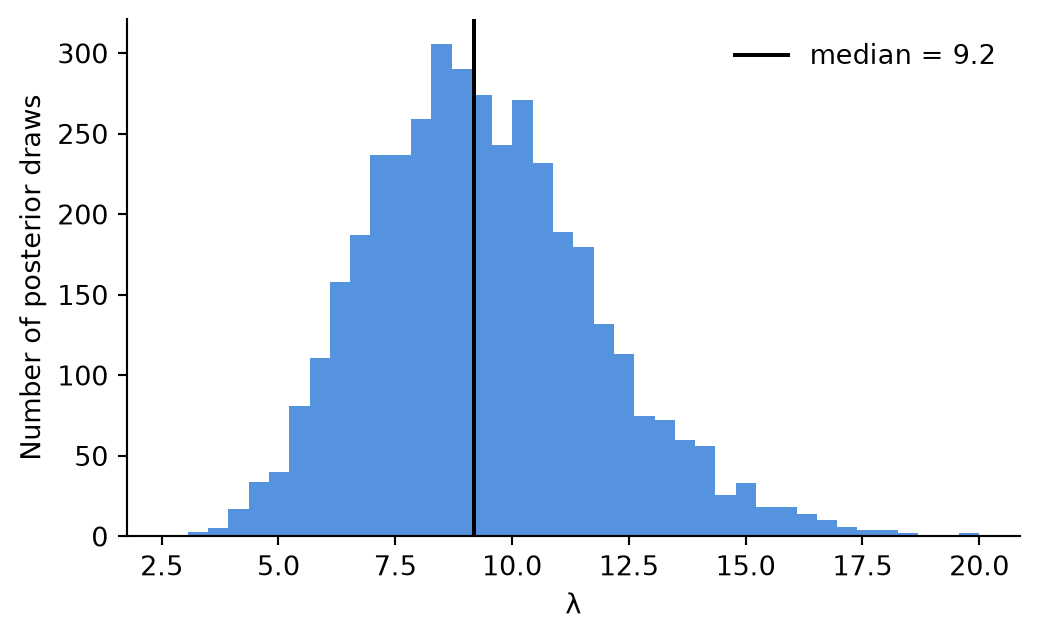
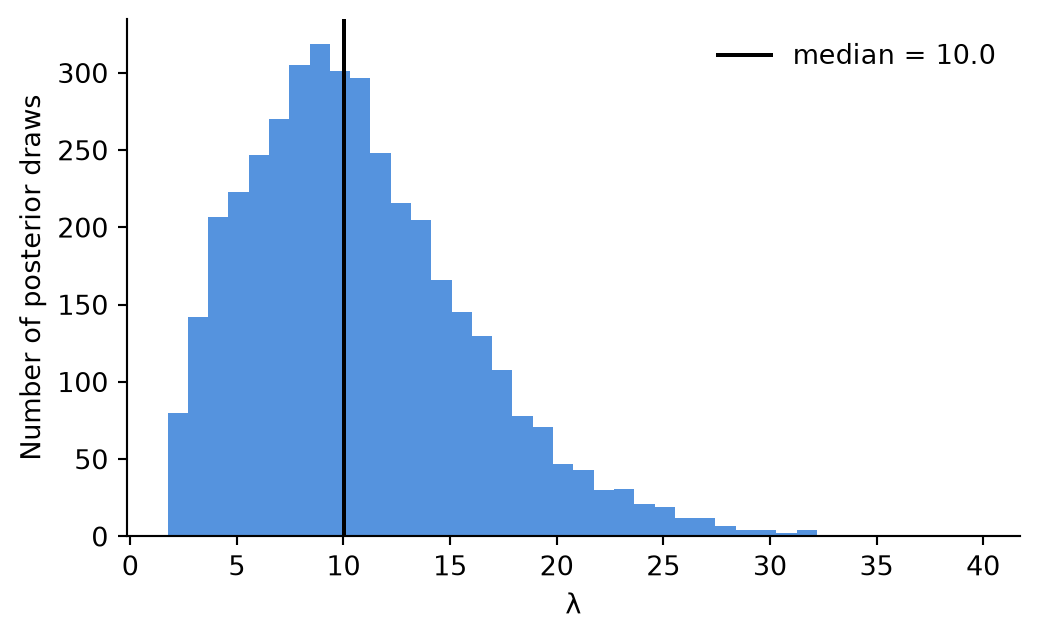
updated commit

diff --git a/_book/bayes_lasso.html b/_book/bayes_lasso.html
@@ -670,53 +670,42 @@ Genes (p):   4088</code></pre>
 <h3 data-number="9.5.4" class="anchored" data-anchor-id="step-4-prepare-the-data"><span class="header-section-number">9.5.4</span> Step 4: Prepare the data</h3>
 <p>We do three things before modeling.</p>
 <p><strong>4a. Split into training and test sets.</strong> We fit the model on the training samples and keep some samples hidden. Later we use the hidden samples to check whether the model predicts well on data it has never seen.</p>
-<p><strong>4b. Screen to the most promising genes.</strong> Sampling 4,088 coefficients with MCMC is possible but slow. To keep this demonstration fast, we keep the 100 genes most correlated with <span class="math inline">\(y\)</span> in the training data. We use only the training data for this step. If we looked at the test samples, information would leak and the test results would look better than they should.</p>
-<p><strong>4c. Standardize.</strong> We rescale every gene to mean 0 and standard deviation 1, and center and scale <span class="math inline">\(y\)</span>. This matters because the lasso penalty treats all coefficients equally, so predictors measured on larger scales would otherwise be penalized unfairly. Centering also lets us leave the intercept out of the model, since centered data have an intercept of zero (the paper makes the same simplification). Test data are scaled using the <em>training</em> means and standard deviations.</p>
+<p><strong>4b. Standardize.</strong> We rescale every gene to mean 0 and standard deviation 1, and center and scale <span class="math inline">\(y\)</span>. This matters because the lasso penalty treats all coefficients equally, so predictors measured on larger scales would otherwise be penalized unfairly. Centering also lets us leave the intercept out of the model, since centered data have an intercept of zero (the paper makes the same simplification). Test data are scaled using the <em>training</em> means and standard deviations.</p>
 <div id="prepare-data" class="cell" data-execution_count="4">
 <details class="code-fold">
 <summary>Code</summary>
 <div class="code-copy-outer-scaffold"><div class="sourceCode cell-code" id="cb7"><pre class="sourceCode python code-with-copy"><code class="sourceCode python"><span id="cb7-1"><a href="#cb7-1" aria-hidden="true" tabindex="-1"></a><span class="im">from</span> sklearn.model_selection <span class="im">import</span> train_test_split</span>
-<span id="cb7-2"><a href="#cb7-2" aria-hidden="true" tabindex="-1"></a><span class="im">from</span> sklearn.feature_selection <span class="im">import</span> SelectKBest, f_regression</span>
-<span id="cb7-3"><a href="#cb7-3" aria-hidden="true" tabindex="-1"></a><span class="im">from</span> sklearn.preprocessing <span class="im">import</span> StandardScaler</span>
-<span id="cb7-4"><a href="#cb7-4" aria-hidden="true" tabindex="-1"></a></span>
-<span id="cb7-5"><a href="#cb7-5" aria-hidden="true" tabindex="-1"></a><span class="co"># 4a. 80/20 split (20% of 71 samples rounds up to 15 test samples)</span></span>
-<span id="cb7-6"><a href="#cb7-6" aria-hidden="true" tabindex="-1"></a></span>
-<span id="cb7-7"><a href="#cb7-7" aria-hidden="true" tabindex="-1"></a><span class="co"># X_train_raw: the gene values for the training samples (56 × 4088)</span></span>
-<span id="cb7-8"><a href="#cb7-8" aria-hidden="true" tabindex="-1"></a><span class="co"># X_test_raw: the gene values for the test samples (15 × 4088)</span></span>
-<span id="cb7-9"><a href="#cb7-9" aria-hidden="true" tabindex="-1"></a><span class="co"># y_train_raw: the response for the training samples (56 values)</span></span>
-<span id="cb7-10"><a href="#cb7-10" aria-hidden="true" tabindex="-1"></a><span class="co"># y_test_raw: the response for the test samples (15 values)</span></span>
-<span id="cb7-11"><a href="#cb7-11" aria-hidden="true" tabindex="-1"></a></span>
-<span id="cb7-12"><a href="#cb7-12" aria-hidden="true" tabindex="-1"></a>X_train_raw, X_test_raw, y_train_raw, y_test_raw <span class="op">=</span> train_test_split(</span>
-<span id="cb7-13"><a href="#cb7-13" aria-hidden="true" tabindex="-1"></a>    X_all, y_all, test_size<span class="op">=</span><span class="fl">0.2</span>, random_state<span class="op">=</span><span class="dv">42</span></span>
-<span id="cb7-14"><a href="#cb7-14" aria-hidden="true" tabindex="-1"></a>)</span>
-<span id="cb7-15"><a href="#cb7-15" aria-hidden="true" tabindex="-1"></a></span>
-<span id="cb7-16"><a href="#cb7-16" aria-hidden="true" tabindex="-1"></a><span class="co"># 4b. Keep the 100 genes most related to y - fit on TRAINING data only</span></span>
-<span id="cb7-17"><a href="#cb7-17" aria-hidden="true" tabindex="-1"></a></span>
-<span id="cb7-18"><a href="#cb7-18" aria-hidden="true" tabindex="-1"></a><span class="co"># create a selector that scores every gene by how strongly it is related to y and keeps the best k = 100</span></span>
-<span id="cb7-19"><a href="#cb7-19" aria-hidden="true" tabindex="-1"></a><span class="co"># f_regression is the scoring method where for each gene on its own, it asks “how strongly does this gene predict y?” </span></span>
-<span id="cb7-20"><a href="#cb7-20" aria-hidden="true" tabindex="-1"></a><span class="co"># a higher score means a stronger relationship, regardless of direction</span></span>
-<span id="cb7-21"><a href="#cb7-21" aria-hidden="true" tabindex="-1"></a>selector <span class="op">=</span> SelectKBest(f_regression, k<span class="op">=</span><span class="dv">100</span>).fit(X_train_raw, y_train_raw)</span>
-<span id="cb7-22"><a href="#cb7-22" aria-hidden="true" tabindex="-1"></a>keep_idx <span class="op">=</span> selector.get_support(indices<span class="op">=</span><span class="va">True</span>)   <span class="co"># positions of the 100 kept genes</span></span>
-<span id="cb7-23"><a href="#cb7-23" aria-hidden="true" tabindex="-1"></a>kept_genes <span class="op">=</span> gene_names[keep_idx]</span>
-<span id="cb7-24"><a href="#cb7-24" aria-hidden="true" tabindex="-1"></a></span>
-<span id="cb7-25"><a href="#cb7-25" aria-hidden="true" tabindex="-1"></a><span class="co"># 4c. Standardize genes - means and sds come from TRAINING data only</span></span>
+<span id="cb7-2"><a href="#cb7-2" aria-hidden="true" tabindex="-1"></a><span class="im">from</span> sklearn.preprocessing <span class="im">import</span> StandardScaler</span>
+<span id="cb7-3"><a href="#cb7-3" aria-hidden="true" tabindex="-1"></a></span>
+<span id="cb7-4"><a href="#cb7-4" aria-hidden="true" tabindex="-1"></a><span class="co"># 4a. 80/20 split (20% of 71 samples rounds up to 15 test samples)</span></span>
+<span id="cb7-5"><a href="#cb7-5" aria-hidden="true" tabindex="-1"></a><span class="co"># X_train_raw: gene values for the training samples (56 × 4088)</span></span>
+<span id="cb7-6"><a href="#cb7-6" aria-hidden="true" tabindex="-1"></a><span class="co"># X_test_raw: gene values for the test samples (15 × 4088)</span></span>
+<span id="cb7-7"><a href="#cb7-7" aria-hidden="true" tabindex="-1"></a><span class="co"># y_train_raw: the response for the training samples (56 values)</span></span>
+<span id="cb7-8"><a href="#cb7-8" aria-hidden="true" tabindex="-1"></a><span class="co"># y_test_raw: the response for the test samples (15 values)</span></span>
+<span id="cb7-9"><a href="#cb7-9" aria-hidden="true" tabindex="-1"></a></span>
+<span id="cb7-10"><a href="#cb7-10" aria-hidden="true" tabindex="-1"></a>X_train_raw, X_test_raw, y_train_raw, y_test_raw <span class="op">=</span> train_test_split(</span>
+<span id="cb7-11"><a href="#cb7-11" aria-hidden="true" tabindex="-1"></a>    X_all, y_all, test_size<span class="op">=</span><span class="fl">0.2</span>, random_state<span class="op">=</span><span class="dv">42</span></span>
+<span id="cb7-12"><a href="#cb7-12" aria-hidden="true" tabindex="-1"></a>)</span>
+<span id="cb7-13"><a href="#cb7-13" aria-hidden="true" tabindex="-1"></a></span>
+<span id="cb7-14"><a href="#cb7-14" aria-hidden="true" tabindex="-1"></a><span class="co"># 4b. Standardize genes - means and sds come from TRAINING data only</span></span>
+<span id="cb7-15"><a href="#cb7-15" aria-hidden="true" tabindex="-1"></a><span class="co"># We keep all 4088 genes (no screening step); the Bayesian lasso handles p &gt; n.</span></span>
+<span id="cb7-16"><a href="#cb7-16" aria-hidden="true" tabindex="-1"></a></span>
+<span id="cb7-17"><a href="#cb7-17" aria-hidden="true" tabindex="-1"></a>x_scaler <span class="op">=</span> StandardScaler().fit(X_train_raw)</span>
+<span id="cb7-18"><a href="#cb7-18" aria-hidden="true" tabindex="-1"></a>Z_train <span class="op">=</span> x_scaler.transform(X_train_raw)</span>
+<span id="cb7-19"><a href="#cb7-19" aria-hidden="true" tabindex="-1"></a>Z_test <span class="op">=</span> x_scaler.transform(X_test_raw)</span>
+<span id="cb7-20"><a href="#cb7-20" aria-hidden="true" tabindex="-1"></a></span>
+<span id="cb7-21"><a href="#cb7-21" aria-hidden="true" tabindex="-1"></a><span class="co"># Standardize y the same way (we keep y_mean and y_sd to convert predictions back later)</span></span>
+<span id="cb7-22"><a href="#cb7-22" aria-hidden="true" tabindex="-1"></a></span>
+<span id="cb7-23"><a href="#cb7-23" aria-hidden="true" tabindex="-1"></a>y_mean, y_sd <span class="op">=</span> y_train_raw.mean(), y_train_raw.std(ddof<span class="op">=</span><span class="dv">1</span>)</span>
+<span id="cb7-24"><a href="#cb7-24" aria-hidden="true" tabindex="-1"></a>y_train <span class="op">=</span> (y_train_raw <span class="op">-</span> y_mean) <span class="op">/</span> y_sd</span>
+<span id="cb7-25"><a href="#cb7-25" aria-hidden="true" tabindex="-1"></a>y_test <span class="op">=</span> (y_test_raw <span class="op">-</span> y_mean) <span class="op">/</span> y_sd</span>
 <span id="cb7-26"><a href="#cb7-26" aria-hidden="true" tabindex="-1"></a></span>
-<span id="cb7-27"><a href="#cb7-27" aria-hidden="true" tabindex="-1"></a>x_scaler <span class="op">=</span> StandardScaler().fit(X_train_raw[:, keep_idx])</span>
-<span id="cb7-28"><a href="#cb7-28" aria-hidden="true" tabindex="-1"></a>Z_train <span class="op">=</span> x_scaler.transform(X_train_raw[:, keep_idx])</span>
-<span id="cb7-29"><a href="#cb7-29" aria-hidden="true" tabindex="-1"></a>Z_test <span class="op">=</span> x_scaler.transform(X_test_raw[:, keep_idx])</span>
-<span id="cb7-30"><a href="#cb7-30" aria-hidden="true" tabindex="-1"></a></span>
-<span id="cb7-31"><a href="#cb7-31" aria-hidden="true" tabindex="-1"></a><span class="co"># Standardize y the same way (we keep y_mean and y_sd to convert predictions back later)</span></span>
-<span id="cb7-32"><a href="#cb7-32" aria-hidden="true" tabindex="-1"></a></span>
-<span id="cb7-33"><a href="#cb7-33" aria-hidden="true" tabindex="-1"></a>y_mean, y_sd <span class="op">=</span> y_train_raw.mean(), y_train_raw.std(ddof<span class="op">=</span><span class="dv">1</span>)</span>
-<span id="cb7-34"><a href="#cb7-34" aria-hidden="true" tabindex="-1"></a>y_train <span class="op">=</span> (y_train_raw <span class="op">-</span> y_mean) <span class="op">/</span> y_sd</span>
-<span id="cb7-35"><a href="#cb7-35" aria-hidden="true" tabindex="-1"></a>y_test <span class="op">=</span> (y_test_raw <span class="op">-</span> y_mean) <span class="op">/</span> y_sd</span>
-<span id="cb7-36"><a href="#cb7-36" aria-hidden="true" tabindex="-1"></a></span>
-<span id="cb7-37"><a href="#cb7-37" aria-hidden="true" tabindex="-1"></a>n_train, p_kept <span class="op">=</span> Z_train.shape</span>
-<span id="cb7-38"><a href="#cb7-38" aria-hidden="true" tabindex="-1"></a>n_test <span class="op">=</span> <span class="bu">len</span>(y_test)</span>
-<span id="cb7-39"><a href="#cb7-39" aria-hidden="true" tabindex="-1"></a><span class="bu">print</span>(<span class="ss">f"Training samples: </span><span class="sc">{</span>n_train<span class="sc">}</span><span class="ss">, test samples: </span><span class="sc">{</span>n_test<span class="sc">}</span><span class="ss">, genes kept: </span><span class="sc">{</span>p_kept<span class="sc">}</span><span class="ss">"</span>)</span></code></pre></div><button title="Copy to Clipboard" class="code-copy-button"><i class="bi"></i></button></div>
+<span id="cb7-27"><a href="#cb7-27" aria-hidden="true" tabindex="-1"></a>n_train, p <span class="op">=</span> Z_train.shape</span>
+<span id="cb7-28"><a href="#cb7-28" aria-hidden="true" tabindex="-1"></a>n_test <span class="op">=</span> <span class="bu">len</span>(y_test)</span>
+<span id="cb7-29"><a href="#cb7-29" aria-hidden="true" tabindex="-1"></a><span class="bu">print</span>(<span class="ss">f"Training samples: </span><span class="sc">{</span>n_train<span class="sc">}</span><span class="ss">, test samples: </span><span class="sc">{</span>n_test<span class="sc">}</span><span class="ss">, genes: </span><span class="sc">{</span>p<span class="sc">}</span><span class="ss">"</span>)</span></code></pre></div><button title="Copy to Clipboard" class="code-copy-button"><i class="bi"></i></button></div>
 </details>
 <div class="cell-output cell-output-stdout">
-<pre><code>Training samples: 56, test samples: 15, genes kept: 100</code></pre>
+<pre><code>Training samples: 56, test samples: 15, genes: 4088</code></pre>
 </div>
 </div>
 </section>
@@ -768,7 +757,7 @@ Genes (p):   4088</code></pre>
 <div class="code-copy-outer-scaffold"><div class="sourceCode cell-code" id="cb9"><pre class="sourceCode python code-with-copy"><code class="sourceCode python"><span id="cb9-1"><a href="#cb9-1" aria-hidden="true" tabindex="-1"></a><span class="co"># Hyperprior settings for lambda^2 ~ Gamma(r, delta)  (rate parameterization)</span></span>
 <span id="cb9-2"><a href="#cb9-2" aria-hidden="true" tabindex="-1"></a>r, delta <span class="op">=</span> <span class="fl">1.0</span>, <span class="fl">0.01</span></span>
 <span id="cb9-3"><a href="#cb9-3" aria-hidden="true" tabindex="-1"></a></span>
-<span id="cb9-4"><a href="#cb9-4" aria-hidden="true" tabindex="-1"></a><span class="cf">with</span> pm.Model(coords<span class="op">=</span>{<span class="st">"gene"</span>: kept_genes}) <span class="im">as</span> bayes_lasso:</span>
+<span id="cb9-4"><a href="#cb9-4" aria-hidden="true" tabindex="-1"></a><span class="cf">with</span> pm.Model(coords<span class="op">=</span>{<span class="st">"gene"</span>: gene_names}) <span class="im">as</span> bayes_lasso:</span>
 <span id="cb9-5"><a href="#cb9-5" aria-hidden="true" tabindex="-1"></a></span>
 <span id="cb9-6"><a href="#cb9-6" aria-hidden="true" tabindex="-1"></a>    <span class="co"># Penalty strength. We place the prior on lambda^2 as in the paper.</span></span>
 <span id="cb9-7"><a href="#cb9-7" aria-hidden="true" tabindex="-1"></a>    lam_sq <span class="op">=</span> pm.Gamma(<span class="st">"lam_sq"</span>, alpha<span class="op">=</span>r, beta<span class="op">=</span>delta)</span>
@@ -811,7 +800,13 @@ Genes (p):   4088</code></pre>
 <pre><code>Initializing NUTS using jitter+adapt_diag...
 Multiprocess sampling (4 chains in 4 jobs)
 NUTS: [lam_sq, sigma, beta]
-Sampling 4 chains for 1_000 tune and 1_000 draw iterations (4_000 + 4_000 draws total) took 26 seconds.</code></pre>
+Sampling 4 chains for 1_000 tune and 1_000 draw iterations (4_000 + 4_000 draws total) took 342 seconds.
+Chain 0 reached the maximum tree depth. Increase `max_treedepth`, increase `target_accept` or reparameterize.
+Chain 1 reached the maximum tree depth. Increase `max_treedepth`, increase `target_accept` or reparameterize.
+Chain 2 reached the maximum tree depth. Increase `max_treedepth`, increase `target_accept` or reparameterize.
+Chain 3 reached the maximum tree depth. Increase `max_treedepth`, increase `target_accept` or reparameterize.
+The rhat statistic is larger than 1.01 for some parameters. This indicates problems during sampling. See https://arxiv.org/abs/1903.08008 for details
+The effective sample size per chain is smaller than 100 for some parameters.  A higher number is needed for reliable rhat and ess computation. See https://arxiv.org/abs/1903.08008 for details</code></pre>
 </div>
 </div>
 </section>
@@ -835,16 +830,16 @@ Sampling 4 chains for 1_000 tune and 1_000 draw iterations (4_000 + 4_000 draws 
 <span id="cb12-9"><a href="#cb12-9" aria-hidden="true" tabindex="-1"></a>n_div <span class="op">=</span> <span class="bu">int</span>(idata.sample_stats[<span class="st">"diverging"</span>].<span class="bu">sum</span>())</span>
 <span id="cb12-10"><a href="#cb12-10" aria-hidden="true" tabindex="-1"></a><span class="bu">print</span>(<span class="st">"Divergent transitions:"</span>, n_div)</span></code></pre></div><button title="Copy to Clipboard" class="code-copy-button"><i class="bi"></i></button></div>
 <div class="cell-output cell-output-stdout">
-<pre><code>        mean     sd  eti89_lb  eti89_ub  ess_bulk  ess_tail  r_hat  mcse_mean  \
-lam    9.403  2.461     5.823    13.695   564.743   910.085  1.005      0.099   
-sigma  0.400  0.053     0.321     0.489  1694.297  1962.566  1.001      0.001   
+<pre><code>         mean     sd  eti89_lb  eti89_ub  ess_bulk  ess_tail  r_hat  \
+lam    10.775  5.315     3.647    20.233    61.757    77.260  1.073   
+sigma   0.138  0.062     0.049     0.245    73.054    76.514  1.049   
 
-       mcse_sd  
-lam      0.046  
-sigma    0.001  
+       mcse_mean  mcse_sd  
+lam        0.663    0.521  
+sigma      0.007    0.003  
 
-Largest R-hat among coefficients: 1.006
-Smallest bulk ESS among coefficients: 2355
+Largest R-hat among coefficients: 1.028
+Smallest bulk ESS among coefficients: 282
 Divergent transitions: 0</code></pre>
 </div>
 </div>
@@ -883,7 +878,7 @@ Figure&nbsp;9.2: Trace plots for λ and σ. Left: the posterior distribution fro
 <span id="cb15-10"><a href="#cb15-10" aria-hidden="true" tabindex="-1"></a></span>
 <span id="cb15-11"><a href="#cb15-11" aria-hidden="true" tabindex="-1"></a><span class="bu">print</span>(<span class="st">"beta_draws shape:"</span>, beta_draws.shape)</span></code></pre></div><button title="Copy to Clipboard" class="code-copy-button"><i class="bi"></i></button></div>
 <div class="cell-output cell-output-stdout">
-<pre><code>beta_draws shape: (4000, 100)</code></pre>
+<pre><code>beta_draws shape: (4000, 4088)</code></pre>
 </div>
 </div>
 <section id="a.-what-did-the-data-say-about-lambda" class="level4" data-number="9.5.8.1">
@@ -914,7 +909,7 @@ Figure&nbsp;9.3: Posterior distribution of the penalty parameter λ. The prior w
 </div>
 </div>
 <div class="cell-output cell-output-stdout">
-<pre><code>λ: median 9.19, 95% credible interval (5.23, 14.87)</code></pre>
+<pre><code>λ: median 10.00, 95% credible interval (2.88, 23.39)</code></pre>
 </div>
 </div>
 <p>A single number from ordinary lasso (chosen by cross-validation) is replaced here by a whole distribution for <span class="math inline">\(\lambda\)</span>. Remember that a larger <span class="math inline">\(\lambda\)</span> means a sharper tent, so a stronger pull toward zero.</p>
@@ -927,29 +922,29 @@ Figure&nbsp;9.3: Posterior distribution of the penalty parameter λ. The prior w
 <span id="cb19-2"><a href="#cb19-2" aria-hidden="true" tabindex="-1"></a>excludes_zero <span class="op">=</span> (coef_lo <span class="op">&gt;</span> <span class="dv">0</span>) <span class="op">|</span> (coef_hi <span class="op">&lt;</span> <span class="dv">0</span>)</span>
 <span id="cb19-3"><a href="#cb19-3" aria-hidden="true" tabindex="-1"></a></span>
 <span id="cb19-4"><a href="#cb19-4" aria-hidden="true" tabindex="-1"></a>results <span class="op">=</span> pd.DataFrame({</span>
-<span id="cb19-5"><a href="#cb19-5" aria-hidden="true" tabindex="-1"></a>    <span class="st">"gene"</span>: kept_genes,</span>
+<span id="cb19-5"><a href="#cb19-5" aria-hidden="true" tabindex="-1"></a>    <span class="st">"gene"</span>: gene_names,</span>
 <span id="cb19-6"><a href="#cb19-6" aria-hidden="true" tabindex="-1"></a>    <span class="st">"median"</span>: coef_med,</span>
 <span id="cb19-7"><a href="#cb19-7" aria-hidden="true" tabindex="-1"></a>    <span class="st">"lower_95"</span>: coef_lo,</span>
 <span id="cb19-8"><a href="#cb19-8" aria-hidden="true" tabindex="-1"></a>    <span class="st">"upper_95"</span>: coef_hi,</span>
 <span id="cb19-9"><a href="#cb19-9" aria-hidden="true" tabindex="-1"></a>    <span class="st">"excludes_zero"</span>: excludes_zero,</span>
 <span id="cb19-10"><a href="#cb19-10" aria-hidden="true" tabindex="-1"></a>}).sort_values(<span class="st">"median"</span>, key<span class="op">=</span>np.<span class="bu">abs</span>, ascending<span class="op">=</span><span class="va">False</span>)</span>
 <span id="cb19-11"><a href="#cb19-11" aria-hidden="true" tabindex="-1"></a></span>
-<span id="cb19-12"><a href="#cb19-12" aria-hidden="true" tabindex="-1"></a><span class="bu">print</span>(<span class="ss">f"Genes whose 95% interval excludes zero: </span><span class="sc">{</span>excludes_zero<span class="sc">.</span><span class="bu">sum</span>()<span class="sc">}</span><span class="ss"> of </span><span class="sc">{</span>p_kept<span class="sc">}</span><span class="ch">\n</span><span class="ss">"</span>)</span>
+<span id="cb19-12"><a href="#cb19-12" aria-hidden="true" tabindex="-1"></a><span class="bu">print</span>(<span class="ss">f"Genes whose 95% interval excludes zero: </span><span class="sc">{</span>excludes_zero<span class="sc">.</span><span class="bu">sum</span>()<span class="sc">}</span><span class="ss"> of </span><span class="sc">{</span>p<span class="sc">}</span><span class="ch">\n</span><span class="ss">"</span>)</span>
 <span id="cb19-13"><a href="#cb19-13" aria-hidden="true" tabindex="-1"></a><span class="bu">print</span>(results.head(<span class="dv">10</span>).<span class="bu">round</span>(<span class="dv">3</span>).to_string(index<span class="op">=</span><span class="va">False</span>))</span></code></pre></div><button title="Copy to Clipboard" class="code-copy-button"><i class="bi"></i></button></div>
 <div class="cell-output cell-output-stdout">
-<pre><code>Genes whose 95% interval excludes zero: 0 of 100
+<pre><code>Genes whose 95% interval excludes zero: 0 of 4088
 
-   gene  median  lower_95  upper_95  excludes_zero
-LYSC_at  -0.104    -0.292     0.016          False
-YXLE_at  -0.060    -0.316     0.040          False
-YETI_at  -0.045    -0.209     0.045          False
-YFII_at   0.043    -0.041     0.221          False
-YDDK_at  -0.042    -0.185     0.040          False
-YXLD_at  -0.041    -0.256     0.057          False
-YXLC_at  -0.040    -0.257     0.057          False
-YJCJ_at   0.035    -0.052     0.216          False
-XKDC_at   0.034    -0.053     0.186          False
-YOAB_at  -0.033    -0.192     0.052          False</code></pre>
+     gene  median  lower_95  upper_95  excludes_zero
+  LYSC_at  -0.008    -0.071     0.023          False
+YHDS_r_at   0.007    -0.025     0.075          False
+  YXLD_at  -0.007    -0.065     0.024          False
+  YXLC_at  -0.007    -0.074     0.026          False
+  YOAB_at  -0.006    -0.068     0.026          False
+  YHZA_at  -0.006    -0.060     0.025          False
+  YXLE_at  -0.006    -0.065     0.025          False
+  YEBC_at  -0.005    -0.067     0.024          False
+  SIGY_at  -0.005    -0.063     0.027          False
+  YTSA_at   0.005    -0.028     0.057          False</code></pre>
 </div>
 </div>
 <div id="cell-fig-forest" class="cell" data-fig-height="6" data-execution_count="12">
@@ -972,7 +967,7 @@ YOAB_at  -0.033    -0.192     0.052          False</code></pre>
 <div id="fig-forest" class="quarto-float quarto-figure quarto-figure-center anchored">
 <figure class="quarto-float quarto-float-fig figure">
 <div aria-describedby="fig-forest-caption-0ceaefa1-69ba-4598-a22c-09a6ac19f8ca">
-<img src="bayes_lasso_files/figure-html/fig-forest-output-1.png" width="664" height="566" class="figure-img">
+<img src="bayes_lasso_files/figure-html/fig-forest-output-1.png" width="665" height="566" class="figure-img">
 </div>
 <figcaption class="quarto-float-caption-bottom quarto-float-caption quarto-float-fig" id="fig-forest-caption-0ceaefa1-69ba-4598-a22c-09a6ac19f8ca">
 Figure&nbsp;9.4: Posterior medians and 95% credible intervals for the 20 genes with the largest effects. Orange intervals exclude zero; gray ones include zero.
@@ -996,7 +991,7 @@ Figure&nbsp;9.4: Posterior medians and 95% credible intervals for the 20 genes w
 <span id="cb22-3"><a href="#cb22-3" aria-hidden="true" tabindex="-1"></a></span>
 <span id="cb22-4"><a href="#cb22-4" aria-hidden="true" tabindex="-1"></a>fig, axes <span class="op">=</span> plt.subplots(<span class="dv">1</span>, <span class="dv">2</span>, figsize<span class="op">=</span>(<span class="dv">10</span>, <span class="fl">3.5</span>), sharex<span class="op">=</span><span class="va">True</span>)</span>
 <span id="cb22-5"><a href="#cb22-5" aria-hidden="true" tabindex="-1"></a><span class="cf">for</span> ax, g <span class="kw">in</span> <span class="bu">zip</span>(axes, [strongest, weakest]):</span>
-<span id="cb22-6"><a href="#cb22-6" aria-hidden="true" tabindex="-1"></a>    j <span class="op">=</span> np.where(kept_genes <span class="op">==</span> g)[<span class="dv">0</span>][<span class="dv">0</span>]</span>
+<span id="cb22-6"><a href="#cb22-6" aria-hidden="true" tabindex="-1"></a>    j <span class="op">=</span> np.where(gene_names <span class="op">==</span> g)[<span class="dv">0</span>][<span class="dv">0</span>]</span>
 <span id="cb22-7"><a href="#cb22-7" aria-hidden="true" tabindex="-1"></a>    ax.hist(beta_draws[:, j], bins<span class="op">=</span><span class="dv">40</span>, color<span class="op">=</span><span class="st">"#2a78d6"</span>, alpha<span class="op">=</span><span class="fl">0.8</span>)</span>
 <span id="cb22-8"><a href="#cb22-8" aria-hidden="true" tabindex="-1"></a>    ax.axvline(<span class="dv">0</span>, color<span class="op">=</span><span class="st">"black"</span>, lw<span class="op">=</span><span class="fl">1.2</span>, ls<span class="op">=</span><span class="st">"--"</span>)</span>
 <span id="cb22-9"><a href="#cb22-9" aria-hidden="true" tabindex="-1"></a>    ax.set_title(g)</span>
@@ -1030,13 +1025,13 @@ Figure&nbsp;9.5: Full posterior distributions for the strongest gene (left) and 
 <span id="cb23-3"><a href="#cb23-3" aria-hidden="true" tabindex="-1"></a>alpha_equiv <span class="op">=</span> np.median(sigma_draws) <span class="op">*</span> lam_med <span class="op">/</span> n_train</span>
 <span id="cb23-4"><a href="#cb23-4" aria-hidden="true" tabindex="-1"></a><span class="bu">print</span>(<span class="ss">f"Cross-validated lasso alpha:           </span><span class="sc">{</span>lasso<span class="sc">.</span>alpha_<span class="sc">:.4f}</span><span class="ss">"</span>)</span>
 <span id="cb23-5"><a href="#cb23-5" aria-hidden="true" tabindex="-1"></a><span class="bu">print</span>(<span class="ss">f"Alpha implied by Bayesian lasso (σλ/n): </span><span class="sc">{</span>alpha_equiv<span class="sc">:.4f}</span><span class="ss">"</span>)</span>
-<span id="cb23-6"><a href="#cb23-6" aria-hidden="true" tabindex="-1"></a><span class="bu">print</span>(<span class="ss">f"Genes with nonzero lasso coefficient:  </span><span class="sc">{</span>(lasso.coef_ <span class="op">!=</span> <span class="dv">0</span>)<span class="sc">.</span><span class="bu">sum</span>()<span class="sc">}</span><span class="ss"> of </span><span class="sc">{</span>p_kept<span class="sc">}</span><span class="ss">"</span>)</span>
-<span id="cb23-7"><a href="#cb23-7" aria-hidden="true" tabindex="-1"></a><span class="bu">print</span>(<span class="ss">f"Genes with a nonzero Bayesian median:  </span><span class="sc">{</span>(coef_med <span class="op">!=</span> <span class="dv">0</span>)<span class="sc">.</span><span class="bu">sum</span>()<span class="sc">}</span><span class="ss"> of </span><span class="sc">{</span>p_kept<span class="sc">}</span><span class="ss">"</span>)</span></code></pre></div><button title="Copy to Clipboard" class="code-copy-button"><i class="bi"></i></button></div>
+<span id="cb23-6"><a href="#cb23-6" aria-hidden="true" tabindex="-1"></a><span class="bu">print</span>(<span class="ss">f"Genes with nonzero lasso coefficient:  </span><span class="sc">{</span>(lasso.coef_ <span class="op">!=</span> <span class="dv">0</span>)<span class="sc">.</span><span class="bu">sum</span>()<span class="sc">}</span><span class="ss"> of </span><span class="sc">{</span>p<span class="sc">}</span><span class="ss">"</span>)</span>
+<span id="cb23-7"><a href="#cb23-7" aria-hidden="true" tabindex="-1"></a><span class="bu">print</span>(<span class="ss">f"Genes with a nonzero Bayesian median:  </span><span class="sc">{</span>(coef_med <span class="op">!=</span> <span class="dv">0</span>)<span class="sc">.</span><span class="bu">sum</span>()<span class="sc">}</span><span class="ss"> of </span><span class="sc">{</span>p<span class="sc">}</span><span class="ss">"</span>)</span></code></pre></div><button title="Copy to Clipboard" class="code-copy-button"><i class="bi"></i></button></div>
 <div class="cell-output cell-output-stdout">
-<pre><code>Cross-validated lasso alpha:           0.0237
-Alpha implied by Bayesian lasso (σλ/n): 0.0652
-Genes with nonzero lasso coefficient:  26 of 100
-Genes with a nonzero Bayesian median:  100 of 100</code></pre>
+<pre><code>Cross-validated lasso alpha:           0.0059
+Alpha implied by Bayesian lasso (σλ/n): 0.0237
+Genes with nonzero lasso coefficient:  54 of 4088
+Genes with a nonzero Bayesian median:  4088 of 4088</code></pre>
 </div>
 </div>
 <div id="cell-fig-lasso-vs-bayes" class="cell" data-execution_count="15">
@@ -1065,7 +1060,7 @@ Figure&nbsp;9.6: Ordinary lasso coefficients versus Bayesian lasso posterior med
 </div>
 </div>
 <div class="cell-output cell-output-stdout">
-<pre><code>Correlation: 0.731</code></pre>
+<pre><code>Correlation: 0.272</code></pre>
 </div>
 </div>
 <p>This matches what the paper found on its diabetes data: the Bayesian lasso posterior medians are very close to the lasso estimates, with the added benefit of credible intervals, and with no exact zeros.</p>

diff --git a/_book/explainer.html b/_book/explainer.html
@@ -113,7 +113,10 @@ pre > code.sourceCode > span > a:first-child::before { text-decoration: underlin
 }</script>
 <script src="https://cdn.jsdelivr.net/npm/requirejs@2.3.6/require.min.js" integrity="sha384-c9c+LnTbwQ3aujuU7ULEPVvgLs+Fn6fJUvIGTsuu1ZcCf11fiEubah0ttpca4ntM sha384-6V1/AdqZRWk1KAlWbKBlGhN7VG4iE/yAZcO6NZPMF8od0vukrvr0tg4qY6NSrItx" crossorigin="anonymous"></script>
 
+
+
 <script type="application/javascript">define('jquery', [],function() {return window.jQuery;})</script>
+
 
   <script src="https://cdnjs.cloudflare.com/polyfill/v3/polyfill.min.js?features=es6"></script>
   <script defer="" src="https://cdn.jsdelivr.net/npm/mathjax@4/tex-chtml.js" type="text/javascript"></script>
